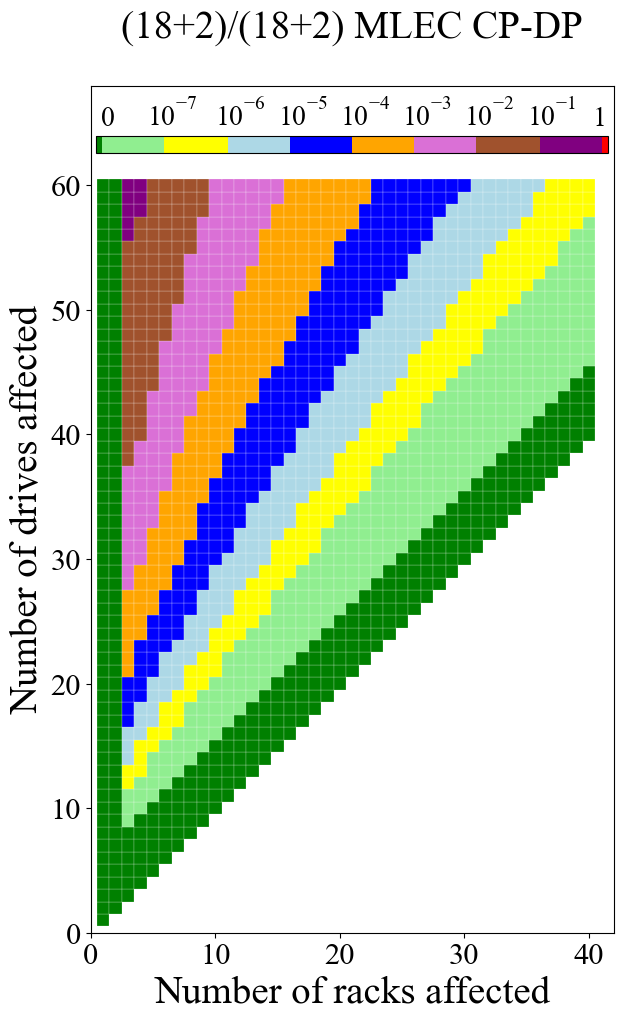
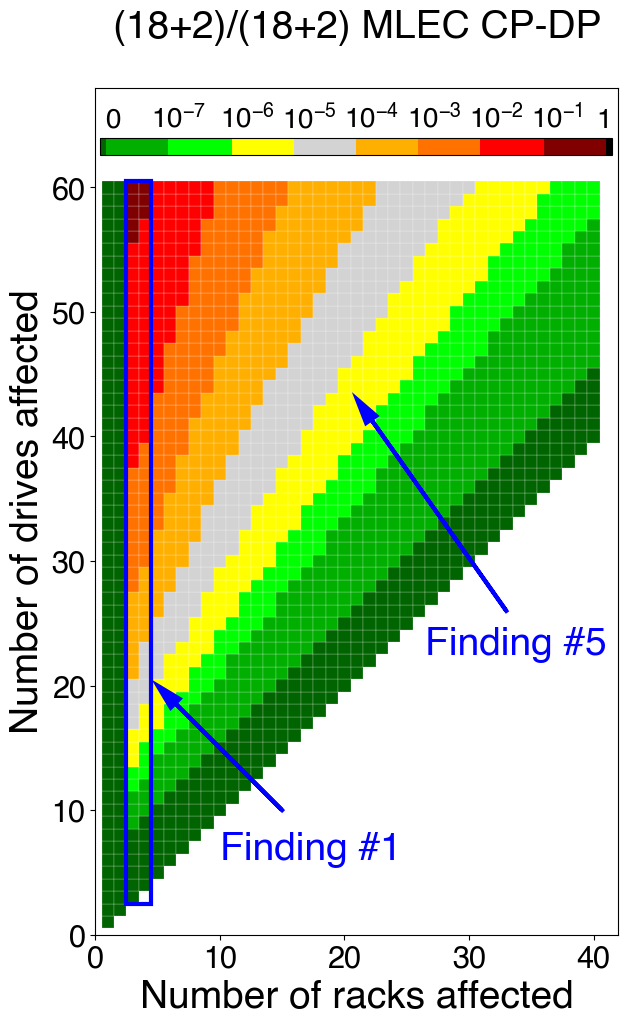
fix heatmap

diff --git a/src/failures/theory/heatmap/scripts/plot-raid-log-60.py b/src/failures/theory/heatmap/scripts/plot-raid-log-60.py
@@ -6,10 +6,17 @@ import pandas as pd
 import sys
 import numpy as np 
 
-plt.rcParams["font.family"] = "Times New Roman"
-label_font = {'fontname':'Times New Roman', 'fontsize':'20'}
+# plt.rcParams["font.family"] = "Times New Roman"
+# label_font = {'fontname':'Times New Roman', 'fontsize':'20'}
+
 title_font_size = 28
 tick_font_size = 22
+
+plt.rcParams["font.family"] = "Helvetica"
+label_font = {'fontname':'Helvetica', 'fontsize':'20'}
+annotation_font = {'fontname':'Helvetica', 'fontsize':title_font_size}
+
+
 
 if len(sys.argv) - 1 < 6:
     print("python plot_xxx.py filepath [cc/cd/dc/dd] [k_n] [p_n] [k_l] [p_l]")
@@ -56,7 +63,7 @@ def cal_radius(count):
     intercept = 10
     return slope * math.log10(count) + intercept
 
-colorlist = ['green', 'lightgreen', 'yellow', 'lightblue', 'blue', 'orange', 'orchid', 'sienna', 'purple', 'red']
+colorlist = ['darkgreen', '#00AF00', 'lime', 'yellow', 'lightgray', '#FFAF00', '#ff7200', 'red', 'maroon', 'black']
 colorranges = [0,      0.0000001, 0.000001,    0.00001,    0.0001,  0.001,    0.01,     0.1,      0.99,    1]
 
 def coloring(x):
@@ -132,7 +139,40 @@ th.append(0.99+dd)
 th.append(1)
 # print(th)
 
+
+# annotations
+anotation_color = 'blue'
+
+
+if placement == 'CP-CP':
+    plt.text(7, 2, 'Finding #3', **annotation_font, color=anotation_color)
+    plt.arrow(12,5.5,-10,9,head_width=1, head_length=2, linewidth=3, color=anotation_color,length_includes_head=True, joinstyle='miter')
+    plt.arrow(12,5.5,2,10,head_width=1, head_length=2, linewidth=3, color=anotation_color,length_includes_head=True, joinstyle='miter')
+
+    plt.text(26.5, 22.5, 'Finding #4', **annotation_font, color=anotation_color)
+    plt.arrow(33,26,-29,32,head_width=1, head_length=2, linewidth=3, color=anotation_color,length_includes_head=True, joinstyle='miter')
+
+if placement == 'CP-DP':
+    axes.add_patch(patches.Rectangle((2.5, 2.5), 2, 58, linewidth=3, edgecolor=anotation_color, facecolor='none'))
+    plt.text(10, 6, 'Finding #1', **annotation_font, color=anotation_color)
+    plt.arrow(15,10,-10,10,head_width=1, head_length=2, linewidth=3, color=anotation_color,length_includes_head=True, joinstyle='miter')
+
+    plt.text(26.5, 22.5, 'Finding #5', **annotation_font, color=anotation_color)
+    plt.arrow(33,26,-12,17,head_width=1, head_length=2, linewidth=3, color=anotation_color,length_includes_head=True, joinstyle='miter')
     
+
+if placement == 'DP-CP':
+    axes.add_patch(patches.Rectangle((0.5, 41.5), 40, 2, linewidth=3, edgecolor=anotation_color, facecolor='none'))
+    plt.text(26.5, 22.5, 'Finding #2', **annotation_font, color=anotation_color)
+    plt.arrow(33,26,-10,15,head_width=1, head_length=2, linewidth=3, color=anotation_color,length_includes_head=True, joinstyle='miter')
+    plt.text(10, 6, 'Finding #6', **annotation_font, color=anotation_color)
+    plt.arrow(15,10,-8,22,head_width=1, head_length=2, linewidth=3, color=anotation_color,length_includes_head=True, joinstyle='miter')
+
+
+if placement == 'DP-DP':
+    plt.text(20, 12, 'Finding #7', **annotation_font, color=anotation_color)
+    plt.arrow(26,15.5,-15,24,head_width=1, head_length=2, linewidth=3, color=anotation_color,length_includes_head=True, joinstyle='miter')
+
 
 mycolors=list(zip(th, hc))
 cm = colors.LinearSegmentedColormap.from_list('test', mycolors)
